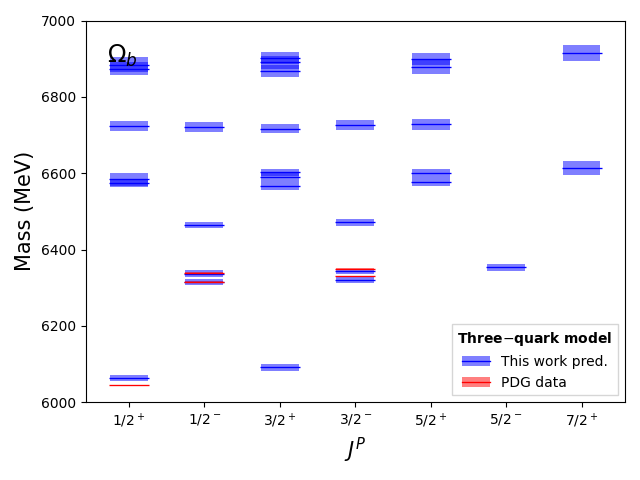
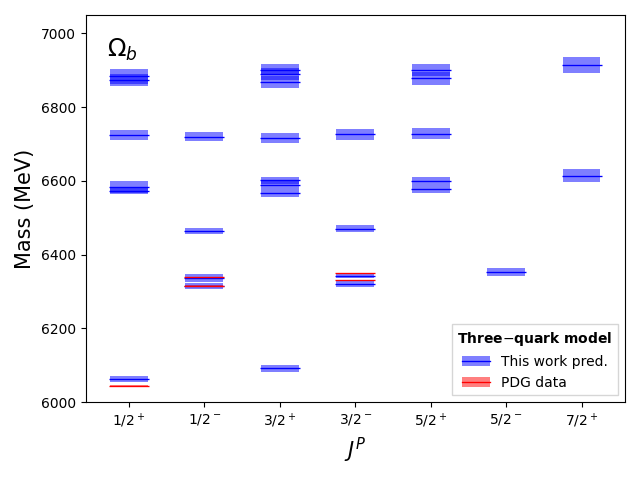
changed order in tables

diff --git a/tables/masses_omegas_paper.tex b/tables/masses_omegas_paper.tex
@@ -1,42 +1,42 @@
-\begin{tabular}{c c| c c c c c }\hline \hline
-            &  & Three-quark &  Quark-diquark    &               &              &  \\ 
-$\Omega_{b}(ssb)$&  & Predicted   &    Predicted   &  Experimental &  Predicted            & Experimental \\ 
-${\bf {6}}_{\rm f}$  & $^{2S+1}L_{J}$ & Mass (MeV)  &   Mass (MeV)   &  Mass (MeV)   &  $\Gamma_{tot}$ (MeV) & $\Gamma$ (MeV) \\ \hline
+\begin{tabular}{c| c c c c c c c}\hline \hline
+        &    & Three-quark & & Quark-diquark    &               &              &  \\ 
+$\Omega_{b}(ssb)$ & & Predicted   &  &  Predicted   &  Experimental &  Predicted            & Experimental \\ 
+ $^{2S+1}L_{J}$  &${\bf {6}}_{\rm f}$&  Mass (MeV)  & ${\bf {6}}_{\rm f}$&  Mass (MeV)   &  Mass (MeV)   &  $\Gamma_{tot}$ (MeV) & $\Gamma$ (MeV) \\ \hline
 \hline
  $N=0$  &  &  &  &  &  \\ 
-$\vert l_{\lambda}\!\!=\!0, l_{\rho}\!\!=\!0, k_{\lambda}\!\!=\!0, k_{\rho}\!\!=\!0 \rangle$ & $^{2}S_{1/2}$ & $6064^{+8}_{-8}$ & $6059^{+13}_{-13}$ & $6045.2\pm 1.2$ & $0.0^{+0.0}_{-0.0}$ & $\approx 0$ \\ 
-$\vert l_{\lambda}\!\!=\!0, l_{\rho}\!\!=\!0, k_{\lambda}\!\!=\!0, k_{\rho}\!\!=\!0 \rangle$ & $^{4}S_{3/2}$ & $6092^{+9}_{-8}$ & $6082^{+14}_{-14}$ & $\dagger$ & $0.0^{+0.0}_{-0.0}$ & $\dagger$ \\ 
+$^{2}S_{1/2}$ & $\vert l_{\lambda}\!\!=\!0, l_{\rho}\!\!=\!0, k_{\lambda}\!\!=\!0, k_{\rho}\!\!=\!0 \rangle$ & $6064^{+8}_{-8}$ & $\vert l_r\!\!=\!0, k_r\!\!=\!0 \rangle$ & $6059^{+13}_{-13}$ & $6045.2\pm 1.2$ & $0.0^{+0.0}_{-0.0}$ & $\approx 0$ \\ 
+$^{4}S_{3/2}$ & $\vert l_{\lambda}\!\!=\!0, l_{\rho}\!\!=\!0, k_{\lambda}\!\!=\!0, k_{\rho}\!\!=\!0 \rangle$ & $6092^{+9}_{-8}$ & $\vert l_r\!\!=\!0, k_r\!\!=\!0 \rangle$ & $6082^{+14}_{-14}$ & $\dagger$ & $0.0^{+0.0}_{-0.0}$ & $\dagger$ \\ 
 \hline
  $N=1$  &  &  &  &  &  \\ 
-$\vert l_{\lambda}\!\!=\!1, l_{\rho}\!\!=\!0, k_{\lambda}\!\!=\!0, k_{\rho}\!\!=\!0 \rangle$ & $^{2}P_{1/2}$ & $6315^{+7}_{-7}$ & $6318^{+9}_{-10}$ & $6315.6\pm 0.6$ & $4.8^{+2.1}_{-2.1}$ & $<4.2$ \\ 
-$\vert l_{\lambda}\!\!=\!1, l_{\rho}\!\!=\!0, k_{\lambda}\!\!=\!0, k_{\rho}\!\!=\!0 \rangle$ & $^{4}P_{1/2}$ & $6337^{+10}_{-10}$ & $6333^{+11}_{-11}$ & $6330.3\pm 0.6$ & $11.1^{+4.8}_{-4.8}$ & $<4.7$ \\ 
-$\vert l_{\lambda}\!\!=\!1, l_{\rho}\!\!=\!0, k_{\lambda}\!\!=\!0, k_{\rho}\!\!=\!0 \rangle$ & $^{2}P_{3/2}$ & $6321^{+8}_{-8}$ & $6328^{+10}_{-10}$ & $6339.7\pm 0.6$ & $24.9^{+11.2}_{-11.2}$ & $<1.8$ \\ 
-$\vert l_{\lambda}\!\!=\!1, l_{\rho}\!\!=\!0, k_{\lambda}\!\!=\!0, k_{\rho}\!\!=\!0 \rangle$ & $^{4}P_{3/2}$ & $6343^{+7}_{-7}$ & $6342^{+10}_{-10}$ & $6349.8\pm 0.6$ & $6.5^{+2.8}_{-2.8}$ & $<3.2$ \\ 
-$\vert l_{\lambda}\!\!=\!1, l_{\rho}\!\!=\!0, k_{\lambda}\!\!=\!0, k_{\rho}\!\!=\!0 \rangle$ & $^{4}P_{5/2}$ & $6353^{+10}_{-11}$ & $6357^{+11}_{-11}$ & $\dagger$ & $42.1^{+18.3}_{-18.3}$ & $\dagger$ \\ 
-$\vert l_{\lambda}\!\!=\!0, l_{\rho}\!\!=\!1, k_{\lambda}\!\!=\!0, k_{\rho}\!\!=\!0 \rangle$ & $^{2}P_{1/2}$ & $6465^{+8}_{-8}$ & $\dagger\dagger$ & $\dagger$ & $10.1^{+4.4}_{-4.4}$ & $\dagger$ \\ 
-$\vert l_{\lambda}\!\!=\!0, l_{\rho}\!\!=\!1, k_{\lambda}\!\!=\!0, k_{\rho}\!\!=\!0 \rangle$ & $^{2}P_{3/2}$ & $6471^{+9}_{-9}$ & $\dagger\dagger$ & $\dagger$ & $55.1^{+24.1}_{-24.3}$ & $\dagger$ \\ 
+$^{2}P_{1/2}$ & $\vert l_{\lambda}\!\!=\!1, l_{\rho}\!\!=\!0, k_{\lambda}\!\!=\!0, k_{\rho}\!\!=\!0 \rangle$ & $6315^{+7}_{-7}$ & $\vert l_r\!\!=\!1, k_r\!\!=\!0 \rangle$ & $6318^{+9}_{-10}$ & $6315.6\pm 0.6$ & $4.8^{+2.1}_{-2.1}$ & $<4.2$ \\ 
+$^{4}P_{1/2}$ & $\vert l_{\lambda}\!\!=\!1, l_{\rho}\!\!=\!0, k_{\lambda}\!\!=\!0, k_{\rho}\!\!=\!0 \rangle$ & $6337^{+10}_{-10}$ & $\vert l_r\!\!=\!1, k_r\!\!=\!0 \rangle$ & $6333^{+11}_{-11}$ & $6330.3\pm 0.6$ & $11.1^{+4.8}_{-4.8}$ & $<4.7$ \\ 
+$^{2}P_{3/2}$ & $\vert l_{\lambda}\!\!=\!1, l_{\rho}\!\!=\!0, k_{\lambda}\!\!=\!0, k_{\rho}\!\!=\!0 \rangle$ & $6321^{+8}_{-8}$ & $\vert l_r\!\!=\!1, k_r\!\!=\!0 \rangle$ & $6328^{+10}_{-10}$ & $6339.7\pm 0.6$ & $24.9^{+11.2}_{-11.2}$ & $<1.8$ \\ 
+$^{4}P_{3/2}$ & $\vert l_{\lambda}\!\!=\!1, l_{\rho}\!\!=\!0, k_{\lambda}\!\!=\!0, k_{\rho}\!\!=\!0 \rangle$ & $6343^{+7}_{-7}$ & $\vert l_r\!\!=\!1, k_r\!\!=\!0 \rangle$ & $6342^{+10}_{-10}$ & $6349.8\pm 0.6$ & $6.5^{+2.8}_{-2.8}$ & $<3.2$ \\ 
+$^{4}P_{5/2}$ & $\vert l_{\lambda}\!\!=\!1, l_{\rho}\!\!=\!0, k_{\lambda}\!\!=\!0, k_{\rho}\!\!=\!0 \rangle$ & $6353^{+10}_{-11}$ & $\vert l_r\!\!=\!1, k_r\!\!=\!0 \rangle$ & $6357^{+11}_{-11}$ & $\dagger$ & $42.1^{+18.3}_{-18.3}$ & $\dagger$ \\ 
+$^{2}P_{1/2}$ & $\vert l_{\lambda}\!\!=\!0, l_{\rho}\!\!=\!1, k_{\lambda}\!\!=\!0, k_{\rho}\!\!=\!0 \rangle$ & $6465^{+8}_{-8}$ & $\vert l_r\!\!=\!x, k_r\!\!=\!0 \rangle$ & $\dagger\dagger$ & $\dagger$ & $10.1^{+4.4}_{-4.4}$ & $\dagger$ \\ 
+$^{2}P_{3/2}$ & $\vert l_{\lambda}\!\!=\!0, l_{\rho}\!\!=\!1, k_{\lambda}\!\!=\!0, k_{\rho}\!\!=\!0 \rangle$ & $6471^{+9}_{-9}$ & $\vert l_r\!\!=\!x, k_r\!\!=\!0 \rangle$ & $\dagger\dagger$ & $\dagger$ & $55.1^{+24.1}_{-24.3}$ & $\dagger$ \\ 
 \hline
  $N=2$  &  &  &  &  &  \\ 
-$\vert l_{\lambda}\!\!=\!2, l_{\rho}\!\!=\!0, k_{\lambda}\!\!=\!0, k_{\rho}\!\!=\!0 \rangle$ & $^{2}D_{3/2}$ & $6567^{+10}_{-10}$ & $6581^{+16}_{-16}$ & $\dagger$ & $4.2^{+1.8}_{-1.8}$ & $\dagger$ \\ 
-$\vert l_{\lambda}\!\!=\!2, l_{\rho}\!\!=\!0, k_{\lambda}\!\!=\!0, k_{\rho}\!\!=\!0 \rangle$ & $^{2}D_{5/2}$ & $6578^{+12}_{-12}$ & $6597^{+17}_{-17}$ & $\dagger$ & $10.1^{+4.4}_{-4.4}$ & $\dagger$ \\ 
-$\vert l_{\lambda}\!\!=\!2, l_{\rho}\!\!=\!0, k_{\lambda}\!\!=\!0, k_{\rho}\!\!=\!0 \rangle$ & $^{4}D_{1/2}$ & $6584^{+17}_{-17}$ & $6586^{+17}_{-17}$ & $\dagger$ & $1.4^{+0.4}_{-0.8}$ & $\dagger$ \\ 
-$\vert l_{\lambda}\!\!=\!2, l_{\rho}\!\!=\!0, k_{\lambda}\!\!=\!0, k_{\rho}\!\!=\!0 \rangle$ & $^{4}D_{3/2}$ & $6590^{+13}_{-13}$ & $6595^{+16}_{-17}$ & $\dagger$ & $3.8^{+1.7}_{-1.8}$ & $\dagger$ \\ 
-$\vert l_{\lambda}\!\!=\!2, l_{\rho}\!\!=\!0, k_{\lambda}\!\!=\!0, k_{\rho}\!\!=\!0 \rangle$ & $^{4}D_{5/2}$ & $6600^{+10}_{-10}$ & $6611^{+16}_{-17}$ & $\dagger$ & $8.0^{+3.7}_{-3.7}$ & $\dagger$ \\ 
-$\vert l_{\lambda}\!\!=\!2, l_{\rho}\!\!=\!0, k_{\lambda}\!\!=\!0, k_{\rho}\!\!=\!0 \rangle$ & $^{4}D_{7/2}$ & $6614^{+18}_{-18}$ & $6632^{+19}_{-19}$ & $\dagger$ & $17.8^{+11.1}_{-10.5}$ & $\dagger$ \\ 
-$\vert l_{\lambda}\!\!=\!0, l_{\rho}\!\!=\!0, k_{\lambda}\!\!=\!1, k_{\rho}\!\!=\!0 \rangle$ & $^{2}S_{1/2}$ & $6574^{+10}_{-10}$ & $6590^{+16}_{-16}$ & $\dagger$ & $0.7^{+0.3}_{-0.3}$ & $\dagger$ \\ 
-$\vert l_{\lambda}\!\!=\!0, l_{\rho}\!\!=\!0, k_{\lambda}\!\!=\!1, k_{\rho}\!\!=\!0 \rangle$ & $^{4}S_{3/2}$ & $6602^{+10}_{-10}$ & $6614^{+16}_{-17}$ & $\dagger$ & $0.6^{+0.3}_{-0.3}$ & $\dagger$ \\ 
-$\vert l_{\lambda}\!\!=\!0, l_{\rho}\!\!=\!0, k_{\lambda}\!\!=\!0, k_{\rho}\!\!=\!1 \rangle$ & $^{2}S_{1/2}$ & $6874^{+17}_{-17}$ & $\dagger\dagger$ & $\dagger$ & $13.5^{+6.3}_{-6.4}$ & $\dagger$ \\ 
-$\vert l_{\lambda}\!\!=\!0, l_{\rho}\!\!=\!0, k_{\lambda}\!\!=\!0, k_{\rho}\!\!=\!1 \rangle$ & $^{4}S_{3/2}$ & $6902^{+16}_{-16}$ & $\dagger\dagger$ & $\dagger$ & $8.7^{+3.6}_{-3.7}$ & $\dagger$ \\ 
-$\vert l_{\lambda}\!\!=\!1, l_{\rho}\!\!=\!1, k_{\lambda}\!\!=\!0, k_{\rho}\!\!=\!0 \rangle$ & $^{2}D_{3/2}$ & $6717^{+13}_{-13}$ & $\dagger\dagger$ & $\dagger$ & $120.6^{+57.6}_{-57.7}$ & $\dagger$ \\ 
-$\vert l_{\lambda}\!\!=\!1, l_{\rho}\!\!=\!1, k_{\lambda}\!\!=\!0, k_{\rho}\!\!=\!0 \rangle$ & $^{2}D_{5/2}$ & $6728^{+15}_{-15}$ & $\dagger\dagger$ & $\dagger$ & $84.6^{+37.3}_{-37.3}$ & $\dagger$ \\ 
-$\vert l_{\lambda}\!\!=\!1, l_{\rho}\!\!=\!1, k_{\lambda}\!\!=\!0, k_{\rho}\!\!=\!0 \rangle$ & $^{2}P_{1/2}$ & $6720^{+13}_{-13}$ & $\dagger\dagger$ & $\dagger$ & $1.1^{+0.5}_{-0.5}$ & $\dagger$ \\ 
-$\vert l_{\lambda}\!\!=\!1, l_{\rho}\!\!=\!1, k_{\lambda}\!\!=\!0, k_{\rho}\!\!=\!0 \rangle$ & $^{2}P_{3/2}$ & $6726^{+14}_{-14}$ & $\dagger\dagger$ & $\dagger$ & $2.1^{+1.0}_{-1.0}$ & $\dagger$ \\ 
-$\vert l_{\lambda}\!\!=\!1, l_{\rho}\!\!=\!1, k_{\lambda}\!\!=\!0, k_{\rho}\!\!=\!0 \rangle$ & $^{2}S_{1/2}$ & $6724^{+13}_{-13}$ & $\dagger\dagger$ & $\dagger$ & $74.6^{+33.5}_{-33.7}$ & $\dagger$ \\ 
-$\vert l_{\lambda}\!\!=\!0, l_{\rho}\!\!=\!2, k_{\lambda}\!\!=\!0, k_{\rho}\!\!=\!0 \rangle$ & $^{2}D_{3/2}$ & $6868^{+16}_{-16}$ & $\dagger\dagger$ & $\dagger$ & $186.3^{+86.3}_{-86.8}$ & $\dagger$ \\ 
-$\vert l_{\lambda}\!\!=\!0, l_{\rho}\!\!=\!2, k_{\lambda}\!\!=\!0, k_{\rho}\!\!=\!0 \rangle$ & $^{2}D_{5/2}$ & $6878^{+18}_{-18}$ & $\dagger\dagger$ & $\dagger$ & $162.1^{+70.0}_{-69.7}$ & $\dagger$ \\ 
-$\vert l_{\lambda}\!\!=\!0, l_{\rho}\!\!=\!2, k_{\lambda}\!\!=\!0, k_{\rho}\!\!=\!0 \rangle$ & $^{4}D_{1/2}$ & $6884^{+20}_{-20}$ & $\dagger\dagger$ & $\dagger$ & $130.4^{+57.3}_{-57.2}$ & $\dagger$ \\ 
-$\vert l_{\lambda}\!\!=\!0, l_{\rho}\!\!=\!2, k_{\lambda}\!\!=\!0, k_{\rho}\!\!=\!0 \rangle$ & $^{4}D_{3/2}$ & $6890^{+17}_{-17}$ & $\dagger\dagger$ & $\dagger$ & $201.0^{+85.6}_{-85.4}$ & $\dagger$ \\ 
-$\vert l_{\lambda}\!\!=\!0, l_{\rho}\!\!=\!2, k_{\lambda}\!\!=\!0, k_{\rho}\!\!=\!0 \rangle$ & $^{4}D_{5/2}$ & $6900^{+16}_{-16}$ & $\dagger\dagger$ & $\dagger$ & $178.1^{+76.1}_{-76.3}$ & $\dagger$ \\ 
-$\vert l_{\lambda}\!\!=\!0, l_{\rho}\!\!=\!2, k_{\lambda}\!\!=\!0, k_{\rho}\!\!=\!0 \rangle$ & $^{4}D_{7/2}$ & $6915^{+22}_{-22}$ & $\dagger\dagger$ & $\dagger$ & $239.0^{+103.5}_{-105.7}$ & $\dagger$ \\ 
+$^{2}D_{3/2}$ & $\vert l_{\lambda}\!\!=\!2, l_{\rho}\!\!=\!0, k_{\lambda}\!\!=\!0, k_{\rho}\!\!=\!0 \rangle$ & $6567^{+10}_{-10}$ & $\vert l_r\!\!=\!2, k_r\!\!=\!0 \rangle$ & $6581^{+16}_{-16}$ & $\dagger$ & $4.2^{+1.8}_{-1.8}$ & $\dagger$ \\ 
+$^{2}D_{5/2}$ & $\vert l_{\lambda}\!\!=\!2, l_{\rho}\!\!=\!0, k_{\lambda}\!\!=\!0, k_{\rho}\!\!=\!0 \rangle$ & $6578^{+12}_{-12}$ & $\vert l_r\!\!=\!2, k_r\!\!=\!0 \rangle$ & $6597^{+17}_{-17}$ & $\dagger$ & $10.1^{+4.4}_{-4.4}$ & $\dagger$ \\ 
+$^{4}D_{1/2}$ & $\vert l_{\lambda}\!\!=\!2, l_{\rho}\!\!=\!0, k_{\lambda}\!\!=\!0, k_{\rho}\!\!=\!0 \rangle$ & $6584^{+17}_{-17}$ & $\vert l_r\!\!=\!2, k_r\!\!=\!0 \rangle$ & $6586^{+17}_{-17}$ & $\dagger$ & $1.4^{+0.4}_{-0.8}$ & $\dagger$ \\ 
+$^{4}D_{3/2}$ & $\vert l_{\lambda}\!\!=\!2, l_{\rho}\!\!=\!0, k_{\lambda}\!\!=\!0, k_{\rho}\!\!=\!0 \rangle$ & $6590^{+13}_{-13}$ & $\vert l_r\!\!=\!2, k_r\!\!=\!0 \rangle$ & $6595^{+16}_{-17}$ & $\dagger$ & $3.8^{+1.7}_{-1.8}$ & $\dagger$ \\ 
+$^{4}D_{5/2}$ & $\vert l_{\lambda}\!\!=\!2, l_{\rho}\!\!=\!0, k_{\lambda}\!\!=\!0, k_{\rho}\!\!=\!0 \rangle$ & $6600^{+10}_{-10}$ & $\vert l_r\!\!=\!2, k_r\!\!=\!0 \rangle$ & $6611^{+16}_{-17}$ & $\dagger$ & $8.0^{+3.7}_{-3.7}$ & $\dagger$ \\ 
+$^{4}D_{7/2}$ & $\vert l_{\lambda}\!\!=\!2, l_{\rho}\!\!=\!0, k_{\lambda}\!\!=\!0, k_{\rho}\!\!=\!0 \rangle$ & $6614^{+18}_{-18}$ & $\vert l_r\!\!=\!2, k_r\!\!=\!0 \rangle$ & $6632^{+19}_{-19}$ & $\dagger$ & $17.8^{+11.1}_{-10.5}$ & $\dagger$ \\ 
+$^{2}S_{1/2}$ & $\vert l_{\lambda}\!\!=\!0, l_{\rho}\!\!=\!0, k_{\lambda}\!\!=\!1, k_{\rho}\!\!=\!0 \rangle$ & $6574^{+10}_{-10}$ & $\vert l_r\!\!=\!0, k_r\!\!=\!1 \rangle$ & $6590^{+16}_{-16}$ & $\dagger$ & $0.7^{+0.3}_{-0.3}$ & $\dagger$ \\ 
+$^{4}S_{3/2}$ & $\vert l_{\lambda}\!\!=\!0, l_{\rho}\!\!=\!0, k_{\lambda}\!\!=\!1, k_{\rho}\!\!=\!0 \rangle$ & $6602^{+10}_{-10}$ & $\vert l_r\!\!=\!0, k_r\!\!=\!1 \rangle$ & $6614^{+16}_{-17}$ & $\dagger$ & $0.6^{+0.3}_{-0.3}$ & $\dagger$ \\ 
+$^{2}S_{1/2}$ & $\vert l_{\lambda}\!\!=\!0, l_{\rho}\!\!=\!0, k_{\lambda}\!\!=\!0, k_{\rho}\!\!=\!1 \rangle$ & $6874^{+17}_{-17}$ & $\vert l_r\!\!=\!0, k_r\!\!=\!x \rangle$ & $\dagger\dagger$ & $\dagger$ & $13.5^{+6.3}_{-6.4}$ & $\dagger$ \\ 
+$^{4}S_{3/2}$ & $\vert l_{\lambda}\!\!=\!0, l_{\rho}\!\!=\!0, k_{\lambda}\!\!=\!0, k_{\rho}\!\!=\!1 \rangle$ & $6902^{+16}_{-16}$ & $\vert l_r\!\!=\!0, k_r\!\!=\!x \rangle$ & $\dagger\dagger$ & $\dagger$ & $8.7^{+3.6}_{-3.7}$ & $\dagger$ \\ 
+$^{2}D_{3/2}$ & $\vert l_{\lambda}\!\!=\!1, l_{\rho}\!\!=\!1, k_{\lambda}\!\!=\!0, k_{\rho}\!\!=\!0 \rangle$ & $6717^{+13}_{-13}$ & $\vert l_r\!\!=\!x, k_r\!\!=\!0 \rangle$ & $\dagger\dagger$ & $\dagger$ & $120.6^{+57.6}_{-57.7}$ & $\dagger$ \\ 
+$^{2}D_{5/2}$ & $\vert l_{\lambda}\!\!=\!1, l_{\rho}\!\!=\!1, k_{\lambda}\!\!=\!0, k_{\rho}\!\!=\!0 \rangle$ & $6728^{+15}_{-15}$ & $\vert l_r\!\!=\!x, k_r\!\!=\!0 \rangle$ & $\dagger\dagger$ & $\dagger$ & $84.6^{+37.3}_{-37.3}$ & $\dagger$ \\ 
+$^{2}P_{1/2}$ & $\vert l_{\lambda}\!\!=\!1, l_{\rho}\!\!=\!1, k_{\lambda}\!\!=\!0, k_{\rho}\!\!=\!0 \rangle$ & $6720^{+13}_{-13}$ & $\vert l_r\!\!=\!x, k_r\!\!=\!0 \rangle$ & $\dagger\dagger$ & $\dagger$ & $1.1^{+0.5}_{-0.5}$ & $\dagger$ \\ 
+$^{2}P_{3/2}$ & $\vert l_{\lambda}\!\!=\!1, l_{\rho}\!\!=\!1, k_{\lambda}\!\!=\!0, k_{\rho}\!\!=\!0 \rangle$ & $6726^{+14}_{-14}$ & $\vert l_r\!\!=\!x, k_r\!\!=\!0 \rangle$ & $\dagger\dagger$ & $\dagger$ & $2.1^{+1.0}_{-1.0}$ & $\dagger$ \\ 
+$^{2}S_{1/2}$ & $\vert l_{\lambda}\!\!=\!1, l_{\rho}\!\!=\!1, k_{\lambda}\!\!=\!0, k_{\rho}\!\!=\!0 \rangle$ & $6724^{+13}_{-13}$ & $\vert l_r\!\!=\!x, k_r\!\!=\!0 \rangle$ & $\dagger\dagger$ & $\dagger$ & $74.6^{+33.5}_{-33.7}$ & $\dagger$ \\ 
+$^{2}D_{3/2}$ & $\vert l_{\lambda}\!\!=\!0, l_{\rho}\!\!=\!2, k_{\lambda}\!\!=\!0, k_{\rho}\!\!=\!0 \rangle$ & $6868^{+16}_{-16}$ & $\vert l_r\!\!=\!x, k_r\!\!=\!0 \rangle$ & $\dagger\dagger$ & $\dagger$ & $186.3^{+86.3}_{-86.8}$ & $\dagger$ \\ 
+$^{2}D_{5/2}$ & $\vert l_{\lambda}\!\!=\!0, l_{\rho}\!\!=\!2, k_{\lambda}\!\!=\!0, k_{\rho}\!\!=\!0 \rangle$ & $6878^{+18}_{-18}$ & $\vert l_r\!\!=\!x, k_r\!\!=\!0 \rangle$ & $\dagger\dagger$ & $\dagger$ & $162.1^{+70.0}_{-69.7}$ & $\dagger$ \\ 
+$^{4}D_{1/2}$ & $\vert l_{\lambda}\!\!=\!0, l_{\rho}\!\!=\!2, k_{\lambda}\!\!=\!0, k_{\rho}\!\!=\!0 \rangle$ & $6884^{+20}_{-20}$ & $\vert l_r\!\!=\!x, k_r\!\!=\!0 \rangle$ & $\dagger\dagger$ & $\dagger$ & $130.4^{+57.3}_{-57.2}$ & $\dagger$ \\ 
+$^{4}D_{3/2}$ & $\vert l_{\lambda}\!\!=\!0, l_{\rho}\!\!=\!2, k_{\lambda}\!\!=\!0, k_{\rho}\!\!=\!0 \rangle$ & $6890^{+17}_{-17}$ & $\vert l_r\!\!=\!x, k_r\!\!=\!0 \rangle$ & $\dagger\dagger$ & $\dagger$ & $201.0^{+85.6}_{-85.4}$ & $\dagger$ \\ 
+$^{4}D_{5/2}$ & $\vert l_{\lambda}\!\!=\!0, l_{\rho}\!\!=\!2, k_{\lambda}\!\!=\!0, k_{\rho}\!\!=\!0 \rangle$ & $6900^{+16}_{-16}$ & $\vert l_r\!\!=\!x, k_r\!\!=\!0 \rangle$ & $\dagger\dagger$ & $\dagger$ & $178.1^{+76.1}_{-76.3}$ & $\dagger$ \\ 
+$^{4}D_{7/2}$ & $\vert l_{\lambda}\!\!=\!0, l_{\rho}\!\!=\!2, k_{\lambda}\!\!=\!0, k_{\rho}\!\!=\!0 \rangle$ & $6915^{+22}_{-22}$ & $\vert l_r\!\!=\!x, k_r\!\!=\!0 \rangle$ & $\dagger\dagger$ & $\dagger$ & $239.0^{+103.5}_{-105.7}$ & $\dagger$ \\ 
 \hline \hline
 \end{tabular}

diff --git a/tables/masses_sigmas_paper.tex b/tables/masses_sigmas_paper.tex
@@ -1,42 +1,42 @@
 \begin{tabular}{c| c c c c c c c}\hline \hline
-        &    & Three-quark & & Quark-diquark    &               &              &  \\ 
-$\Sigma_{b}(nnb)$ & & Predicted   &  &  Predicted   &  Experimental &  Predicted            & Experimental \\ 
- $^{2S+1}L_{J}$  &${\bf {6}}_{\rm f}$&  Mass (MeV)  & ${\bf {6}}_{\rm f}$&  Mass (MeV)   &  Mass (MeV)   &  $\Gamma_{tot}$ (MeV) & $\Gamma$ (MeV) \\ \hline
+${\bf {6}}_{\rm f}$  & Quark-diquark & & Three-quark   &             &      &        &  \\ 
+$\Sigma_{b}(nnb)$ &   & Predicted  &   &  Predicted   &  Experimental &  Predicted            & Experimental \\ 
+ $^{2S+1}L_{J}$ & $\vert l_{r}, k_{r} \rangle$ & Mass (MeV)  & $\vert l_{\lambda}, l_{\rho}, k_{\lambda}, k_{\rho} \rangle$  &  Mass (MeV)   &  Mass (MeV)   &  $\Gamma_{tot}$ (MeV) & $\Gamma$ (MeV) \\ \hline
 \hline
  $N=0$  &  &  &  &  &  \\ 
-$^{2}S_{1/2}$ & $\vert l_{\lambda}\!\!=\!0, l_{\rho}\!\!=\!0, k_{\lambda}\!\!=\!0, k_{\rho}\!\!=\!0 \rangle$ & $5804^{+8}_{-8}$ & $\vert l_r\!\!=\!0, k_r\!\!=\!0 \rangle$ & $5811^{+12}_{-12}$ & $5813.1\pm 0.3$ & $4.0^{+2.1}_{-2.1}$ & $5.0\pm 0.5$ \\ 
-$^{4}S_{3/2}$ & $\vert l_{\lambda}\!\!=\!0, l_{\rho}\!\!=\!0, k_{\lambda}\!\!=\!0, k_{\rho}\!\!=\!0 \rangle$ & $5832^{+8}_{-8}$ & $\vert l_r\!\!=\!0, k_r\!\!=\!0 \rangle$ & $5834^{+13}_{-14}$ & $5832.5\pm 0.5$ & $10.4^{+5.0}_{-5.0}$ & $9.9\pm 0.9$ \\ 
+$^{2}S_{1/2}$ & $\vert 0,0 \rangle$ & $5811^{+12}_{-12}$ & $\vert 0,0,0,0 \rangle $ & $5804^{+8}_{-8}$ & $5813.1\pm 0.3$ & $4.0^{+2.1}_{-2.1}$ & $5.0\pm 0.5$ \\ 
+$^{4}S_{3/2}$ & $\vert 0,0 \rangle$ & $5834^{+13}_{-14}$ & $\vert 0,0,0,0 \rangle $ & $5832^{+8}_{-8}$ & $5832.5\pm 0.5$ & $10.4^{+5.0}_{-5.0}$ & $9.9\pm 0.9$ \\ 
 \hline
  $N=1$  &  &  &  &  &  \\ 
-$^{2}P_{1/2}$ & $\vert l_{\lambda}\!\!=\!1, l_{\rho}\!\!=\!0, k_{\lambda}\!\!=\!0, k_{\rho}\!\!=\!0 \rangle$ & $6108^{+10}_{-10}$ & $\vert l_r\!\!=\!1, k_r\!\!=\!0 \rangle$ & $6097^{+14}_{-13}$ & $6096.9\pm 1.8$ & $24.4^{+10.5}_{-10.4}$ & $30\pm 7$ \\ 
-$^{4}P_{1/2}$ & $\vert l_{\lambda}\!\!=\!1, l_{\rho}\!\!=\!0, k_{\lambda}\!\!=\!0, k_{\rho}\!\!=\!0 \rangle$ & $6131^{+12}_{-12}$ & $\vert l_r\!\!=\!1, k_r\!\!=\!0 \rangle$ & $6112^{+14}_{-14}$ & $\dagger$ & $13.7^{+5.9}_{-5.9}$ & $\dagger$ \\ 
-$^{2}P_{3/2}$ & $\vert l_{\lambda}\!\!=\!1, l_{\rho}\!\!=\!0, k_{\lambda}\!\!=\!0, k_{\rho}\!\!=\!0 \rangle$ & $6114^{+10}_{-10}$ & $\vert l_r\!\!=\!1, k_r\!\!=\!0 \rangle$ & $6107^{+14}_{-13}$ & $\dagger$ & $87.2^{+37.5}_{-37.5}$ & $\dagger$ \\ 
-$^{4}P_{3/2}$ & $\vert l_{\lambda}\!\!=\!1, l_{\rho}\!\!=\!0, k_{\lambda}\!\!=\!0, k_{\rho}\!\!=\!0 \rangle$ & $6137^{+10}_{-10}$ & $\vert l_r\!\!=\!1, k_r\!\!=\!0 \rangle$ & $6121^{+14}_{-13}$ & $\dagger$ & $59.3^{+25.7}_{-25.6}$ & $\dagger$ \\ 
-$^{4}P_{5/2}$ & $\vert l_{\lambda}\!\!=\!1, l_{\rho}\!\!=\!0, k_{\lambda}\!\!=\!0, k_{\rho}\!\!=\!0 \rangle$ & $6147^{+12}_{-12}$ & $\vert l_r\!\!=\!1, k_r\!\!=\!0 \rangle$ & $6137^{+14}_{-14}$ & $\dagger$ & $99.0^{+42.2}_{-41.6}$ & $\dagger$ \\ 
-$^{2}P_{1/2}$ & $\vert l_{\lambda}\!\!=\!0, l_{\rho}\!\!=\!1, k_{\lambda}\!\!=\!0, k_{\rho}\!\!=\!0 \rangle$ & $6305^{+13}_{-13}$ & $\vert l_r\!\!=\!x, k_r\!\!=\!0 \rangle$ & $\dagger\dagger$ & $\dagger$ & $139.4^{+59.8}_{-60.2}$ & $\dagger$ \\ 
-$^{2}P_{3/2}$ & $\vert l_{\lambda}\!\!=\!0, l_{\rho}\!\!=\!1, k_{\lambda}\!\!=\!0, k_{\rho}\!\!=\!0 \rangle$ & $6311^{+13}_{-13}$ & $\vert l_r\!\!=\!x, k_r\!\!=\!0 \rangle$ & $\dagger\dagger$ & $\dagger$ & $133.9^{+58.4}_{-57.7}$ & $\dagger$ \\ 
+$^{2}P_{1/2}$ & $\vert 1,0 \rangle$ & $6097^{+14}_{-13}$ & $\vert 1,0,0,0 \rangle $ & $6108^{+10}_{-10}$ & $6096.9\pm 1.8$ & $24.4^{+10.5}_{-10.4}$ & $30\pm 7$ \\ 
+$^{4}P_{1/2}$ & $\vert 1,0 \rangle$ & $6112^{+14}_{-14}$ & $\vert 1,0,0,0 \rangle $ & $6131^{+12}_{-12}$ & $\dagger$ & $13.7^{+5.9}_{-5.9}$ & $\dagger$ \\ 
+$^{2}P_{3/2}$ & $\vert 1,0 \rangle$ & $6107^{+14}_{-13}$ & $\vert 1,0,0,0 \rangle $ & $6114^{+10}_{-10}$ & $\dagger$ & $87.2^{+37.5}_{-37.5}$ & $\dagger$ \\ 
+$^{4}P_{3/2}$ & $\vert 1,0 \rangle$ & $6121^{+14}_{-13}$ & $\vert 1,0,0,0 \rangle $ & $6137^{+10}_{-10}$ & $\dagger$ & $59.3^{+25.7}_{-25.6}$ & $\dagger$ \\ 
+$^{4}P_{5/2}$ & $\vert 1,0 \rangle$ & $6137^{+14}_{-14}$ & $\vert 1,0,0,0 \rangle $ & $6147^{+12}_{-12}$ & $\dagger$ & $99.0^{+42.2}_{-41.6}$ & $\dagger$ \\ 
+$^{2}P_{1/2}$ & $\dagger\dagger$ & $\dagger\dagger$ & $\vert 0,1,0,0 \rangle $ & $6305^{+13}_{-13}$ & $\dagger$ & $139.4^{+59.8}_{-60.2}$ & $\dagger$ \\ 
+$^{2}P_{3/2}$ & $\dagger\dagger$ & $\dagger\dagger$ & $\vert 0,1,0,0 \rangle $ & $6311^{+13}_{-13}$ & $\dagger$ & $133.9^{+58.4}_{-57.7}$ & $\dagger$ \\ 
 \hline
  $N=2$  &  &  &  &  &  \\ 
-$^{2}D_{3/2}$ & $\vert l_{\lambda}\!\!=\!2, l_{\rho}\!\!=\!0, k_{\lambda}\!\!=\!0, k_{\rho}\!\!=\!0 \rangle$ & $6415^{+15}_{-15}$ & $\vert l_r\!\!=\!2, k_r\!\!=\!0 \rangle$ & $6387^{+21}_{-22}$ & $\dagger$ & $59.9^{+26.2}_{-26.3}$ & $\dagger$ \\ 
-$^{2}D_{5/2}$ & $\vert l_{\lambda}\!\!=\!2, l_{\rho}\!\!=\!0, k_{\lambda}\!\!=\!0, k_{\rho}\!\!=\!0 \rangle$ & $6425^{+16}_{-16}$ & $\vert l_r\!\!=\!2, k_r\!\!=\!0 \rangle$ & $6403^{+21}_{-23}$ & $\dagger$ & $134.5^{+58.4}_{-58.4}$ & $\dagger$ \\ 
-$^{4}D_{1/2}$ & $\vert l_{\lambda}\!\!=\!2, l_{\rho}\!\!=\!0, k_{\lambda}\!\!=\!0, k_{\rho}\!\!=\!0 \rangle$ & $6431^{+21}_{-21}$ & $\vert l_r\!\!=\!2, k_r\!\!=\!0 \rangle$ & $6392^{+23}_{-23}$ & $\dagger$ & $80.6^{+34.9}_{-35.1}$ & $\dagger$ \\ 
-$^{4}D_{3/2}$ & $\vert l_{\lambda}\!\!=\!2, l_{\rho}\!\!=\!0, k_{\lambda}\!\!=\!0, k_{\rho}\!\!=\!0 \rangle$ & $6438^{+17}_{-17}$ & $\vert l_r\!\!=\!2, k_r\!\!=\!0 \rangle$ & $6402^{+22}_{-22}$ & $\dagger$ & $110.6^{+48.9}_{-48.0}$ & $\dagger$ \\ 
-$^{4}D_{5/2}$ & $\vert l_{\lambda}\!\!=\!2, l_{\rho}\!\!=\!0, k_{\lambda}\!\!=\!0, k_{\rho}\!\!=\!0 \rangle$ & $6448^{+15}_{-15}$ & $\vert l_r\!\!=\!2, k_r\!\!=\!0 \rangle$ & $6417^{+22}_{-21}$ & $\dagger$ & $137.6^{+59.2}_{-58.7}$ & $\dagger$ \\ 
-$^{4}D_{7/2}$ & $\vert l_{\lambda}\!\!=\!2, l_{\rho}\!\!=\!0, k_{\lambda}\!\!=\!0, k_{\rho}\!\!=\!0 \rangle$ & $6462^{+20}_{-21}$ & $\vert l_r\!\!=\!2, k_r\!\!=\!0 \rangle$ & $6439^{+22}_{-23}$ & $\dagger$ & $149.7^{+66.0}_{-66.2}$ & $\dagger$ \\ 
-$^{2}S_{1/2}$ & $\vert l_{\lambda}\!\!=\!0, l_{\rho}\!\!=\!0, k_{\lambda}\!\!=\!1, k_{\rho}\!\!=\!0 \rangle$ & $6421^{+15}_{-15}$ & $\vert l_r\!\!=\!0, k_r\!\!=\!1 \rangle$ & $6397^{+21}_{-23}$ & $\dagger$ & $4.0^{+1.8}_{-1.8}$ & $\dagger$ \\ 
-$^{4}S_{3/2}$ & $\vert l_{\lambda}\!\!=\!0, l_{\rho}\!\!=\!0, k_{\lambda}\!\!=\!1, k_{\rho}\!\!=\!0 \rangle$ & $6450^{+15}_{-15}$ & $\vert l_r\!\!=\!0, k_r\!\!=\!1 \rangle$ & $6421^{+22}_{-22}$ & $\dagger$ & $4.1^{+1.8}_{-1.8}$ & $\dagger$ \\ 
-$^{2}S_{1/2}$ & $\vert l_{\lambda}\!\!=\!0, l_{\rho}\!\!=\!0, k_{\lambda}\!\!=\!0, k_{\rho}\!\!=\!1 \rangle$ & $6814^{+24}_{-24}$ & $\vert l_r\!\!=\!0, k_r\!\!=\!x \rangle$ & $\dagger\dagger$ & $\dagger$ & $24.2^{+10.4}_{-10.3}$ & $\dagger$ \\ 
-$^{4}S_{3/2}$ & $\vert l_{\lambda}\!\!=\!0, l_{\rho}\!\!=\!0, k_{\lambda}\!\!=\!0, k_{\rho}\!\!=\!1 \rangle$ & $6842^{+24}_{-24}$ & $\vert l_r\!\!=\!0, k_r\!\!=\!x \rangle$ & $\dagger\dagger$ & $\dagger$ & $32.9^{+14.2}_{-14.2}$ & $\dagger$ \\ 
-$^{2}D_{3/2}$ & $\vert l_{\lambda}\!\!=\!1, l_{\rho}\!\!=\!1, k_{\lambda}\!\!=\!0, k_{\rho}\!\!=\!0 \rangle$ & $6611^{+19}_{-19}$ & $\vert l_r\!\!=\!x, k_r\!\!=\!0 \rangle$ & $\dagger\dagger$ & $\dagger$ & $393.8^{+170.7}_{-171.3}$ & $\dagger$ \\ 
-$^{2}D_{5/2}$ & $\vert l_{\lambda}\!\!=\!1, l_{\rho}\!\!=\!1, k_{\lambda}\!\!=\!0, k_{\rho}\!\!=\!0 \rangle$ & $6621^{+20}_{-20}$ & $\vert l_r\!\!=\!x, k_r\!\!=\!0 \rangle$ & $\dagger\dagger$ & $\dagger$ & $260.8^{+117.0}_{-116.5}$ & $\dagger$ \\ 
-$^{2}P_{1/2}$ & $\vert l_{\lambda}\!\!=\!1, l_{\rho}\!\!=\!1, k_{\lambda}\!\!=\!0, k_{\rho}\!\!=\!0 \rangle$ & $6613^{+19}_{-19}$ & $\vert l_r\!\!=\!x, k_r\!\!=\!0 \rangle$ & $\dagger\dagger$ & $\dagger$ & $4.6^{+2.0}_{-2.1}$ & $\dagger$ \\ 
-$^{2}P_{3/2}$ & $\vert l_{\lambda}\!\!=\!1, l_{\rho}\!\!=\!1, k_{\lambda}\!\!=\!0, k_{\rho}\!\!=\!0 \rangle$ & $6619^{+20}_{-20}$ & $\vert l_r\!\!=\!x, k_r\!\!=\!0 \rangle$ & $\dagger\dagger$ & $\dagger$ & $4.9^{+2.2}_{-2.2}$ & $\dagger$ \\ 
-$^{2}S_{1/2}$ & $\vert l_{\lambda}\!\!=\!1, l_{\rho}\!\!=\!1, k_{\lambda}\!\!=\!0, k_{\rho}\!\!=\!0 \rangle$ & $6617^{+20}_{-19}$ & $\vert l_r\!\!=\!x, k_r\!\!=\!0 \rangle$ & $\dagger\dagger$ & $\dagger$ & $59.4^{+26.3}_{-26.5}$ & $\dagger$ \\ 
-$^{2}D_{3/2}$ & $\vert l_{\lambda}\!\!=\!0, l_{\rho}\!\!=\!2, k_{\lambda}\!\!=\!0, k_{\rho}\!\!=\!0 \rangle$ & $6808^{+24}_{-23}$ & $\vert l_r\!\!=\!x, k_r\!\!=\!0 \rangle$ & $\dagger\dagger$ & $\dagger$ & $576.7^{+243.3}_{-247.8}$ & $\dagger$ \\ 
-$^{2}D_{5/2}$ & $\vert l_{\lambda}\!\!=\!0, l_{\rho}\!\!=\!2, k_{\lambda}\!\!=\!0, k_{\rho}\!\!=\!0 \rangle$ & $6818^{+25}_{-25}$ & $\vert l_r\!\!=\!x, k_r\!\!=\!0 \rangle$ & $\dagger\dagger$ & $\dagger$ & $636.3^{+277.7}_{-282.1}$ & $\dagger$ \\ 
-$^{4}D_{1/2}$ & $\vert l_{\lambda}\!\!=\!0, l_{\rho}\!\!=\!2, k_{\lambda}\!\!=\!0, k_{\rho}\!\!=\!0 \rangle$ & $6824^{+26}_{-26}$ & $\vert l_r\!\!=\!x, k_r\!\!=\!0 \rangle$ & $\dagger\dagger$ & $\dagger$ & $1385.1^{+597.2}_{-594.0}$ & $\dagger$ \\ 
-$^{4}D_{3/2}$ & $\vert l_{\lambda}\!\!=\!0, l_{\rho}\!\!=\!2, k_{\lambda}\!\!=\!0, k_{\rho}\!\!=\!0 \rangle$ & $6830^{+25}_{-24}$ & $\vert l_r\!\!=\!x, k_r\!\!=\!0 \rangle$ & $\dagger\dagger$ & $\dagger$ & $764.3^{+319.0}_{-329.2}$ & $\dagger$ \\ 
-$^{4}D_{5/2}$ & $\vert l_{\lambda}\!\!=\!0, l_{\rho}\!\!=\!2, k_{\lambda}\!\!=\!0, k_{\rho}\!\!=\!0 \rangle$ & $6840^{+24}_{-23}$ & $\vert l_r\!\!=\!x, k_r\!\!=\!0 \rangle$ & $\dagger\dagger$ & $\dagger$ & $391.1^{+171.3}_{-168.9}$ & $\dagger$ \\ 
-$^{4}D_{7/2}$ & $\vert l_{\lambda}\!\!=\!0, l_{\rho}\!\!=\!2, k_{\lambda}\!\!=\!0, k_{\rho}\!\!=\!0 \rangle$ & $6855^{+28}_{-28}$ & $\vert l_r\!\!=\!x, k_r\!\!=\!0 \rangle$ & $\dagger\dagger$ & $\dagger$ & $1227.0^{+560.1}_{-555.8}$ & $\dagger$ \\ 
+$^{2}D_{3/2}$ & $\vert 2,0 \rangle$ & $6387^{+21}_{-22}$ & $\vert 2,0,0,0 \rangle $ & $6415^{+15}_{-15}$ & $\dagger$ & $59.9^{+26.2}_{-26.3}$ & $\dagger$ \\ 
+$^{2}D_{5/2}$ & $\vert 2,0 \rangle$ & $6403^{+21}_{-23}$ & $\vert 2,0,0,0 \rangle $ & $6425^{+16}_{-16}$ & $\dagger$ & $134.5^{+58.4}_{-58.4}$ & $\dagger$ \\ 
+$^{4}D_{1/2}$ & $\vert 2,0 \rangle$ & $6392^{+23}_{-23}$ & $\vert 2,0,0,0 \rangle $ & $6431^{+21}_{-21}$ & $\dagger$ & $80.6^{+34.9}_{-35.1}$ & $\dagger$ \\ 
+$^{4}D_{3/2}$ & $\vert 2,0 \rangle$ & $6402^{+22}_{-22}$ & $\vert 2,0,0,0 \rangle $ & $6438^{+17}_{-17}$ & $\dagger$ & $110.6^{+48.9}_{-48.0}$ & $\dagger$ \\ 
+$^{4}D_{5/2}$ & $\vert 2,0 \rangle$ & $6417^{+22}_{-21}$ & $\vert 2,0,0,0 \rangle $ & $6448^{+15}_{-15}$ & $\dagger$ & $137.6^{+59.2}_{-58.7}$ & $\dagger$ \\ 
+$^{4}D_{7/2}$ & $\vert 2,0 \rangle$ & $6439^{+22}_{-23}$ & $\vert 2,0,0,0 \rangle $ & $6462^{+20}_{-21}$ & $\dagger$ & $149.7^{+66.0}_{-66.2}$ & $\dagger$ \\ 
+$^{2}S_{1/2}$ & $\vert 0,1 \rangle$ & $6397^{+21}_{-23}$ & $\vert 0,0,1,0 \rangle $ & $6421^{+15}_{-15}$ & $\dagger$ & $4.0^{+1.8}_{-1.8}$ & $\dagger$ \\ 
+$^{4}S_{3/2}$ & $\vert 0,1 \rangle$ & $6421^{+22}_{-22}$ & $\vert 0,0,1,0 \rangle $ & $6450^{+15}_{-15}$ & $\dagger$ & $4.1^{+1.8}_{-1.8}$ & $\dagger$ \\ 
+$^{2}S_{1/2}$ & $\dagger\dagger$ & $\dagger\dagger$ & $\vert 0,0,0,1 \rangle $ & $6814^{+24}_{-24}$ & $\dagger$ & $24.2^{+10.4}_{-10.3}$ & $\dagger$ \\ 
+$^{4}S_{3/2}$ & $\dagger\dagger$ & $\dagger\dagger$ & $\vert 0,0,0,1 \rangle $ & $6842^{+24}_{-24}$ & $\dagger$ & $32.9^{+14.2}_{-14.2}$ & $\dagger$ \\ 
+$^{2}D_{3/2}$ & $\dagger\dagger$ & $\dagger\dagger$ & $\vert 1,1,0,0 \rangle $ & $6611^{+19}_{-19}$ & $\dagger$ & $393.8^{+170.7}_{-171.3}$ & $\dagger$ \\ 
+$^{2}D_{5/2}$ & $\dagger\dagger$ & $\dagger\dagger$ & $\vert 1,1,0,0 \rangle $ & $6621^{+20}_{-20}$ & $\dagger$ & $260.8^{+117.0}_{-116.5}$ & $\dagger$ \\ 
+$^{2}P_{1/2}$ & $\dagger\dagger$ & $\dagger\dagger$ & $\vert 1,1,0,0 \rangle $ & $6613^{+19}_{-19}$ & $\dagger$ & $4.6^{+2.0}_{-2.1}$ & $\dagger$ \\ 
+$^{2}P_{3/2}$ & $\dagger\dagger$ & $\dagger\dagger$ & $\vert 1,1,0,0 \rangle $ & $6619^{+20}_{-20}$ & $\dagger$ & $4.9^{+2.2}_{-2.2}$ & $\dagger$ \\ 
+$^{2}S_{1/2}$ & $\dagger\dagger$ & $\dagger\dagger$ & $\vert 1,1,0,0 \rangle $ & $6617^{+20}_{-19}$ & $\dagger$ & $59.4^{+26.3}_{-26.5}$ & $\dagger$ \\ 
+$^{2}D_{3/2}$ & $\dagger\dagger$ & $\dagger\dagger$ & $\vert 0,2,0,0 \rangle $ & $6808^{+24}_{-23}$ & $\dagger$ & $576.7^{+243.3}_{-247.8}$ & $\dagger$ \\ 
+$^{2}D_{5/2}$ & $\dagger\dagger$ & $\dagger\dagger$ & $\vert 0,2,0,0 \rangle $ & $6818^{+25}_{-25}$ & $\dagger$ & $636.3^{+277.7}_{-282.1}$ & $\dagger$ \\ 
+$^{4}D_{1/2}$ & $\dagger\dagger$ & $\dagger\dagger$ & $\vert 0,2,0,0 \rangle $ & $6824^{+26}_{-26}$ & $\dagger$ & $1385.1^{+597.2}_{-594.0}$ & $\dagger$ \\ 
+$^{4}D_{3/2}$ & $\dagger\dagger$ & $\dagger\dagger$ & $\vert 0,2,0,0 \rangle $ & $6830^{+25}_{-24}$ & $\dagger$ & $764.3^{+319.0}_{-329.2}$ & $\dagger$ \\ 
+$^{4}D_{5/2}$ & $\dagger\dagger$ & $\dagger\dagger$ & $\vert 0,2,0,0 \rangle $ & $6840^{+24}_{-23}$ & $\dagger$ & $391.1^{+171.3}_{-168.9}$ & $\dagger$ \\ 
+$^{4}D_{7/2}$ & $\dagger\dagger$ & $\dagger\dagger$ & $\vert 0,2,0,0 \rangle $ & $6855^{+28}_{-28}$ & $\dagger$ & $1227.0^{+560.1}_{-555.8}$ & $\dagger$ \\ 
 \hline \hline
 \end{tabular}

diff --git a/tables/comparison_masses_sigmas_paper.tex b/tables/comparison_masses_sigmas_paper.tex
@@ -3,39 +3,39 @@ $\Sigma_{b}(nnb)$&                  & This work   &   Yoshida     &  Hosaka     
 ${\bf {6}}_{\rm f}$  & $^{2S+1}L_{J}$ & mass (MeV)  &   mass (MeV)  &  mass (MeV)  &  mass (MeV) & mass (MeV) & mass (MeV) &      mass (MeV) \\ \hline
 \hline
  $N=0$  &  &  &  &  &  \\ 
-$\vert l_{\lambda}\!\!=\!0, l_{\rho}\!\!=\!0, k_{\lambda}\!\!=\!0, k_{\rho}\!\!=\!0 \rangle$ & $^{2}S_{1/2}$ & $5804^{+8}_{-8}$ & $5823$ & $5809$ & $5833$ & $5810$ & $5820$ & $5813.1\pm 0.3$ \\ 
-$\vert l_{\lambda}\!\!=\!0, l_{\rho}\!\!=\!0, k_{\lambda}\!\!=\!0, k_{\rho}\!\!=\!0 \rangle$ & $^{4}S_{3/2}$ & $5832^{+8}_{-8}$ & $5845$ & $5835$ & $5858$ & $5829$ & $5836$ & $5832.5\pm 0.5$ \\ 
+$\vert 0,0,0,0 \rangle $ & $^{2}S_{1/2}$ & $5804^{+8}_{-8}$ & $5823$ & $5809$ & $5833$ & $5810$ & $5820$ & $5813.1\pm 0.3$ \\ 
+$\vert 0,0,0,0 \rangle $ & $^{4}S_{3/2}$ & $5832^{+8}_{-8}$ & $5845$ & $5835$ & $5858$ & $5829$ & $5836$ & $5832.5\pm 0.5$ \\ 
 \hline
  $N=1$  &  &  &  &  &  \\ 
-$\vert l_{\lambda}\!\!=\!1, l_{\rho}\!\!=\!0, k_{\lambda}\!\!=\!0, k_{\rho}\!\!=\!0 \rangle$ & $^{2}P_{1/2}$ & $6108^{+10}_{-10}$ & $6127$ & ... & $6099$ & $6043$ & ... & $6096.9\pm 1.8$ \\ 
-$\vert l_{\lambda}\!\!=\!1, l_{\rho}\!\!=\!0, k_{\lambda}\!\!=\!0, k_{\rho}\!\!=\!0 \rangle$ & $^{4}P_{1/2}$ & $6131^{+12}_{-12}$ & $6135$ & $6020$ & $6106$ & $6065$ & ... & $\dagger$ \\ 
-$\vert l_{\lambda}\!\!=\!1, l_{\rho}\!\!=\!0, k_{\lambda}\!\!=\!0, k_{\rho}\!\!=\!0 \rangle$ & $^{2}P_{3/2}$ & $6114^{+10}_{-10}$ & $6132$ & ... & $6101$ & $6079$ & ... & $\dagger$ \\ 
-$\vert l_{\lambda}\!\!=\!1, l_{\rho}\!\!=\!0, k_{\lambda}\!\!=\!0, k_{\rho}\!\!=\!0 \rangle$ & $^{4}P_{3/2}$ & $6137^{+10}_{-10}$ & $6141$ & $5960$ & $6105$ & $6117$ & ... & $\dagger$ \\ 
-$\vert l_{\lambda}\!\!=\!1, l_{\rho}\!\!=\!0, k_{\lambda}\!\!=\!0, k_{\rho}\!\!=\!0 \rangle$ & $^{4}P_{5/2}$ & $6147^{+12}_{-12}$ & $6144$ & $5980$ & $6172$ & $6129$ & ... & $\dagger$ \\ 
-$\vert l_{\lambda}\!\!=\!0, l_{\rho}\!\!=\!1, k_{\lambda}\!\!=\!0, k_{\rho}\!\!=\!0 \rangle$ & $^{2}P_{1/2}$ & $6305^{+13}_{-13}$ & $6246$ & $5910$ & ... & ... & ... & $\dagger$ \\ 
-$\vert l_{\lambda}\!\!=\!0, l_{\rho}\!\!=\!1, k_{\lambda}\!\!=\!0, k_{\rho}\!\!=\!0 \rangle$ & $^{2}P_{3/2}$ & $6311^{+13}_{-13}$ & $6246$ & $5920$ & ... & ... & ... & $\dagger$ \\ 
+$\vert 1,0,0,0 \rangle $ & $^{2}P_{1/2}$ & $6108^{+10}_{-10}$ & $6127$ & ... & $6099$ & $6043$ & ... & $6096.9\pm 1.8$ \\ 
+$\vert 1,0,0,0 \rangle $ & $^{4}P_{1/2}$ & $6131^{+12}_{-12}$ & $6135$ & $6020$ & $6106$ & $6065$ & ... & $\dagger$ \\ 
+$\vert 1,0,0,0 \rangle $ & $^{2}P_{3/2}$ & $6114^{+10}_{-10}$ & $6132$ & ... & $6101$ & $6079$ & ... & $\dagger$ \\ 
+$\vert 1,0,0,0 \rangle $ & $^{4}P_{3/2}$ & $6137^{+10}_{-10}$ & $6141$ & $5960$ & $6105$ & $6117$ & ... & $\dagger$ \\ 
+$\vert 1,0,0,0 \rangle $ & $^{4}P_{5/2}$ & $6147^{+12}_{-12}$ & $6144$ & $5980$ & $6172$ & $6129$ & ... & $\dagger$ \\ 
+$\vert 0,1,0,0 \rangle $ & $^{2}P_{1/2}$ & $6305^{+13}_{-13}$ & $6246$ & $5910$ & ... & ... & ... & $\dagger$ \\ 
+$\vert 0,1,0,0 \rangle $ & $^{2}P_{3/2}$ & $6311^{+13}_{-13}$ & $6246$ & $5920$ & ... & ... & ... & $\dagger$ \\ 
 \hline
  $N=2$  &  &  &  &  &  \\ 
-$\vert l_{\lambda}\!\!=\!2, l_{\rho}\!\!=\!0, k_{\lambda}\!\!=\!0, k_{\rho}\!\!=\!0 \rangle$ & $^{2}D_{3/2}$ & $6415^{+15}_{-15}$ & $6356$ & ... & $6308$ & $6316$ & ... & $\dagger$ \\ 
-$\vert l_{\lambda}\!\!=\!2, l_{\rho}\!\!=\!0, k_{\lambda}\!\!=\!0, k_{\rho}\!\!=\!0 \rangle$ & $^{2}D_{5/2}$ & $6425^{+16}_{-16}$ & $6397$ & ... & $6325$ & $6341$ & ... & $\dagger$ \\ 
-$\vert l_{\lambda}\!\!=\!2, l_{\rho}\!\!=\!0, k_{\lambda}\!\!=\!0, k_{\rho}\!\!=\!0 \rangle$ & $^{4}D_{1/2}$ & $6431^{+21}_{-21}$ & $6343$ & ... & ... & $6304$ & ... & $\dagger$ \\ 
-$\vert l_{\lambda}\!\!=\!2, l_{\rho}\!\!=\!0, k_{\lambda}\!\!=\!0, k_{\rho}\!\!=\!0 \rangle$ & $^{4}D_{3/2}$ & $6438^{+17}_{-17}$ & $6393$ & ... & ... & $6330$ & ... & $\dagger$ \\ 
-$\vert l_{\lambda}\!\!=\!2, l_{\rho}\!\!=\!0, k_{\lambda}\!\!=\!0, k_{\rho}\!\!=\!0 \rangle$ & $^{4}D_{5/2}$ & $6448^{+15}_{-15}$ & $6402$ & ... & $6328$ & $6365$ & ... & $\dagger$ \\ 
-$\vert l_{\lambda}\!\!=\!2, l_{\rho}\!\!=\!0, k_{\lambda}\!\!=\!0, k_{\rho}\!\!=\!0 \rangle$ & $^{4}D_{7/2}$ & $6462^{+20}_{-21}$ & ... & ... & $6333$ & $6373$ & ... & $\dagger$ \\ 
-$\vert l_{\lambda}\!\!=\!0, l_{\rho}\!\!=\!0, k_{\lambda}\!\!=\!1, k_{\rho}\!\!=\!0 \rangle$ & $^{2}S_{1/2}$ & $6421^{+15}_{-15}$ & $6395$ & ... & $6294$ & $6274$ & ... & $\dagger$ \\ 
-$\vert l_{\lambda}\!\!=\!0, l_{\rho}\!\!=\!0, k_{\lambda}\!\!=\!1, k_{\rho}\!\!=\!0 \rangle$ & $^{4}S_{3/2}$ & $6450^{+15}_{-15}$ & ... & ... & ... & $6286$ & ... & $\dagger$ \\ 
-$\vert l_{\lambda}\!\!=\!0, l_{\rho}\!\!=\!0, k_{\lambda}\!\!=\!0, k_{\rho}\!\!=\!1 \rangle$ & $^{2}S_{1/2}$ & $6814^{+24}_{-24}$ & ... & ... & ... & ... & ... & $\dagger$ \\ 
-$\vert l_{\lambda}\!\!=\!0, l_{\rho}\!\!=\!0, k_{\lambda}\!\!=\!0, k_{\rho}\!\!=\!1 \rangle$ & $^{4}S_{3/2}$ & $6842^{+24}_{-24}$ & ... & ... & ... & ... & ... & $\dagger$ \\ 
-$\vert l_{\lambda}\!\!=\!1, l_{\rho}\!\!=\!1, k_{\lambda}\!\!=\!0, k_{\rho}\!\!=\!0 \rangle$ & $^{2}D_{3/2}$ & $6611^{+19}_{-19}$ & ... & ... & ... & ... & ... & $\dagger$ \\ 
-$\vert l_{\lambda}\!\!=\!1, l_{\rho}\!\!=\!1, k_{\lambda}\!\!=\!0, k_{\rho}\!\!=\!0 \rangle$ & $^{2}D_{5/2}$ & $6621^{+20}_{-20}$ & $6505$ & ... & ... & ... & ... & $\dagger$ \\ 
-$\vert l_{\lambda}\!\!=\!1, l_{\rho}\!\!=\!1, k_{\lambda}\!\!=\!0, k_{\rho}\!\!=\!0 \rangle$ & $^{2}P_{1/2}$ & $6613^{+19}_{-19}$ & ... & ... & ... & ... & ... & $\dagger$ \\ 
-$\vert l_{\lambda}\!\!=\!1, l_{\rho}\!\!=\!1, k_{\lambda}\!\!=\!0, k_{\rho}\!\!=\!0 \rangle$ & $^{2}P_{3/2}$ & $6619^{+20}_{-20}$ & ... & ... & ... & ... & ... & $\dagger$ \\ 
-$\vert l_{\lambda}\!\!=\!1, l_{\rho}\!\!=\!1, k_{\lambda}\!\!=\!0, k_{\rho}\!\!=\!0 \rangle$ & $^{2}S_{1/2}$ & $6617^{+20}_{-19}$ & ... & ... & ... & ... & ... & $\dagger$ \\ 
-$\vert l_{\lambda}\!\!=\!0, l_{\rho}\!\!=\!2, k_{\lambda}\!\!=\!0, k_{\rho}\!\!=\!0 \rangle$ & $^{2}D_{3/2}$ & $6808^{+24}_{-23}$ & ... & ... & ... & ... & ... & $\dagger$ \\ 
-$\vert l_{\lambda}\!\!=\!0, l_{\rho}\!\!=\!2, k_{\lambda}\!\!=\!0, k_{\rho}\!\!=\!0 \rangle$ & $^{2}D_{5/2}$ & $6818^{+25}_{-25}$ & ... & ... & ... & ... & ... & $\dagger$ \\ 
-$\vert l_{\lambda}\!\!=\!0, l_{\rho}\!\!=\!2, k_{\lambda}\!\!=\!0, k_{\rho}\!\!=\!0 \rangle$ & $^{4}D_{1/2}$ & $6824^{+26}_{-26}$ & ... & ... & ... & ... & ... & $\dagger$ \\ 
-$\vert l_{\lambda}\!\!=\!0, l_{\rho}\!\!=\!2, k_{\lambda}\!\!=\!0, k_{\rho}\!\!=\!0 \rangle$ & $^{4}D_{3/2}$ & $6830^{+25}_{-24}$ & ... & ... & ... & ... & ... & $\dagger$ \\ 
-$\vert l_{\lambda}\!\!=\!0, l_{\rho}\!\!=\!2, k_{\lambda}\!\!=\!0, k_{\rho}\!\!=\!0 \rangle$ & $^{4}D_{5/2}$ & $6840^{+24}_{-23}$ & ... & ... & ... & ... & ... & $\dagger$ \\ 
-$\vert l_{\lambda}\!\!=\!0, l_{\rho}\!\!=\!2, k_{\lambda}\!\!=\!0, k_{\rho}\!\!=\!0 \rangle$ & $^{4}D_{7/2}$ & $6855^{+28}_{-28}$ & ... & ... & $6554$ & ... & ... & $\dagger$ \\ 
+$\vert 2,0,0,0 \rangle $ & $^{2}D_{3/2}$ & $6415^{+15}_{-15}$ & $6356$ & ... & $6308$ & $6316$ & ... & $\dagger$ \\ 
+$\vert 2,0,0,0 \rangle $ & $^{2}D_{5/2}$ & $6425^{+16}_{-16}$ & $6397$ & ... & $6325$ & $6341$ & ... & $\dagger$ \\ 
+$\vert 2,0,0,0 \rangle $ & $^{4}D_{1/2}$ & $6431^{+21}_{-21}$ & $6343$ & ... & ... & $6304$ & ... & $\dagger$ \\ 
+$\vert 2,0,0,0 \rangle $ & $^{4}D_{3/2}$ & $6438^{+17}_{-17}$ & $6393$ & ... & ... & $6330$ & ... & $\dagger$ \\ 
+$\vert 2,0,0,0 \rangle $ & $^{4}D_{5/2}$ & $6448^{+15}_{-15}$ & $6402$ & ... & $6328$ & $6365$ & ... & $\dagger$ \\ 
+$\vert 2,0,0,0 \rangle $ & $^{4}D_{7/2}$ & $6462^{+20}_{-21}$ & ... & ... & $6333$ & $6373$ & ... & $\dagger$ \\ 
+$\vert 0,0,1,0 \rangle $ & $^{2}S_{1/2}$ & $6421^{+15}_{-15}$ & $6395$ & ... & $6294$ & $6274$ & ... & $\dagger$ \\ 
+$\vert 0,0,1,0 \rangle $ & $^{4}S_{3/2}$ & $6450^{+15}_{-15}$ & ... & ... & ... & $6286$ & ... & $\dagger$ \\ 
+$\vert 0,0,0,1 \rangle $ & $^{2}S_{1/2}$ & $6814^{+24}_{-24}$ & ... & ... & ... & ... & ... & $\dagger$ \\ 
+$\vert 0,0,0,1 \rangle $ & $^{4}S_{3/2}$ & $6842^{+24}_{-24}$ & ... & ... & ... & ... & ... & $\dagger$ \\ 
+$\vert 1,1,0,0 \rangle $ & $^{2}D_{3/2}$ & $6611^{+19}_{-19}$ & ... & ... & ... & ... & ... & $\dagger$ \\ 
+$\vert 1,1,0,0 \rangle $ & $^{2}D_{5/2}$ & $6621^{+20}_{-20}$ & $6505$ & ... & ... & ... & ... & $\dagger$ \\ 
+$\vert 1,1,0,0 \rangle $ & $^{2}P_{1/2}$ & $6613^{+19}_{-19}$ & ... & ... & ... & ... & ... & $\dagger$ \\ 
+$\vert 1,1,0,0 \rangle $ & $^{2}P_{3/2}$ & $6619^{+20}_{-20}$ & ... & ... & ... & ... & ... & $\dagger$ \\ 
+$\vert 1,1,0,0 \rangle $ & $^{2}S_{1/2}$ & $6617^{+20}_{-19}$ & ... & ... & ... & ... & ... & $\dagger$ \\ 
+$\vert 0,2,0,0 \rangle $ & $^{2}D_{3/2}$ & $6808^{+24}_{-23}$ & ... & ... & ... & ... & ... & $\dagger$ \\ 
+$\vert 0,2,0,0 \rangle $ & $^{2}D_{5/2}$ & $6818^{+25}_{-25}$ & ... & ... & ... & ... & ... & $\dagger$ \\ 
+$\vert 0,2,0,0 \rangle $ & $^{4}D_{1/2}$ & $6824^{+26}_{-26}$ & ... & ... & ... & ... & ... & $\dagger$ \\ 
+$\vert 0,2,0,0 \rangle $ & $^{4}D_{3/2}$ & $6830^{+25}_{-24}$ & ... & ... & ... & ... & ... & $\dagger$ \\ 
+$\vert 0,2,0,0 \rangle $ & $^{4}D_{5/2}$ & $6840^{+24}_{-23}$ & ... & ... & ... & ... & ... & $\dagger$ \\ 
+$\vert 0,2,0,0 \rangle $ & $^{4}D_{7/2}$ & $6855^{+28}_{-28}$ & ... & ... & $6554$ & ... & ... & $\dagger$ \\ 
 \hline \hline
 \end{tabular}

diff --git a/bottomfw/common/bottom_tables.py b/bottomfw/common/bottom_tables.py
@@ -70,9 +70,9 @@ class BottomTables:
         flavor_name = du.flavor_label(self.m_baryons)
         
         print("\\begin{tabular}{c| c c c c c c c}\hline \hline", file=f_paper)
-        print("        &    & Three-quark & & Quark-diquark    &               &              &  \\\ ", file=f_paper)
-        print(baryon_name+" & & Predicted   &  &  Predicted   &  Experimental &  Predicted            & Experimental \\\ ", file=f_paper)
-        print(" $^{2S+1}L_{J}$  &" +flavor_name+ "&  Mass (MeV)  & " +flavor_name+ "&  Mass (MeV)   &  Mass (MeV)   &  $\Gamma_{tot}$ (MeV) & $\Gamma$ (MeV) \\\ \hline", file=f_paper)
+        print(flavor_name+ "  & Quark-diquark & & Three-quark   &             &      &        &  \\\ ", file=f_paper)
+        print(baryon_name+" &   & Predicted  &   &  Predicted   &  Experimental &  Predicted            & Experimental \\\ ", file=f_paper)
+        print(" $^{2S+1}L_{J}$ & $\\vert l_{r}, k_{r} \\rangle$ & Mass (MeV)  & $\\vert l_{\\lambda}, l_{\\rho}, k_{\\lambda}, k_{\\rho} \\rangle$  &  Mass (MeV)   &  Mass (MeV)   &  $\Gamma_{tot}$ (MeV) & $\Gamma$ (MeV) \\\ \hline", file=f_paper)
 
         s_wave_count,p_wave_count,d_wave_count=0,0,0
         for i in range(len(self.m_mass)):
@@ -114,7 +114,7 @@ class BottomTables:
                     mass_di_lat = '$'+str(abs(round(self.m_mass_di[j])))+'^{+'+str(abs(round(self.m_error_up_di[j])))+'}_{-'+str(abs(round(self.m_error_dn_di[j])))+'}$'
                     break
         
-            print( wave_label,'&' ,quantum_state, mass_lat, '&' ,quantum_state_di, mass_di_lat,'&', exp_mass, '&', decay_lat,'&', exp_width, '\\\ ', file=f_paper)
+            print( wave_label,'&' ,quantum_state_di, mass_di_lat,'&'  ,quantum_state, mass_lat, '&' ,exp_mass, '&', decay_lat,'&', exp_width, '\\\ ', file=f_paper)
         
     
         name = self.m_baryons

diff --git a/bottomfw/common/data_utils.py b/bottomfw/common/data_utils.py
@@ -304,7 +304,7 @@ def name_quantum_state(baryons, J_tot, S_tot, L_tot, ModEx, SU_tot):
     else:
         flavour = 'x'
 
-    return '$\\vert l_{\\lambda}\\!\\!=\\!'+ l_lam + ', l_{\\rho}\\!\\!=\\!'+l_rho + ', k_{\\lambda}\\!\\!=\\!' + kappa_lam + ', k_{\\rho}\\!\\!=\\!'+kappa_rho +' \\rangle$ &'
+    return  '$\\vert ' +l_lam + ','+l_rho + ',' + kappa_lam + ','+kappa_rho +' \\rangle $ &'
         
     # return '$\\vert '+ quarks +','+ j_name + ',' + s_name +',' + l_lam + ',' + l_rho + ',' + kappa + ',' + flavour +' \\rangle$ &'
 
@@ -396,8 +396,10 @@ def name_quantum_state_di(baryons, J_tot, S_tot, L_tot, ModEx, SU_tot):
         flavour = '{\\bf {3}}_{\\rm c}' # 3_{c}
     else:
         flavour = 'x'
-
-    return '$\\vert l_r\\!\\!=\\!'+ l_r + ', k_r\\!\\!=\\!' + kappa_r +' \\rangle$ &'
+    if l_rho != '0' or kappa_rho != '0':
+        return "$\\dagger\\dagger$ &"
+    else:
+        return '$\\vert ' + l_r + ',' + kappa_r +' \\rangle$ &'
         
     # return '$\\vert '+ quarks +','+ j_name + ',' + s_name +',' + l_lam + ',' + l_rho + ',' + kappa + ',' + flavour +' \\rangle$ &'
 

diff --git a/bottomfw/common/bottom_plots.py b/bottomfw/common/bottom_plots.py
@@ -62,7 +62,7 @@ class BottomPlots:
         ax.set_ylabel('Mass (MeV)')
 
         if self.m_baryons=='omegas':
-            ax.set_ylim([6000,7000])
+            ax.set_ylim([6000,7050])
             if self.m_model_flag=="diquark":
                 ax.set_ylim([6000,6700])
         elif self.m_baryons=='sigmas':
